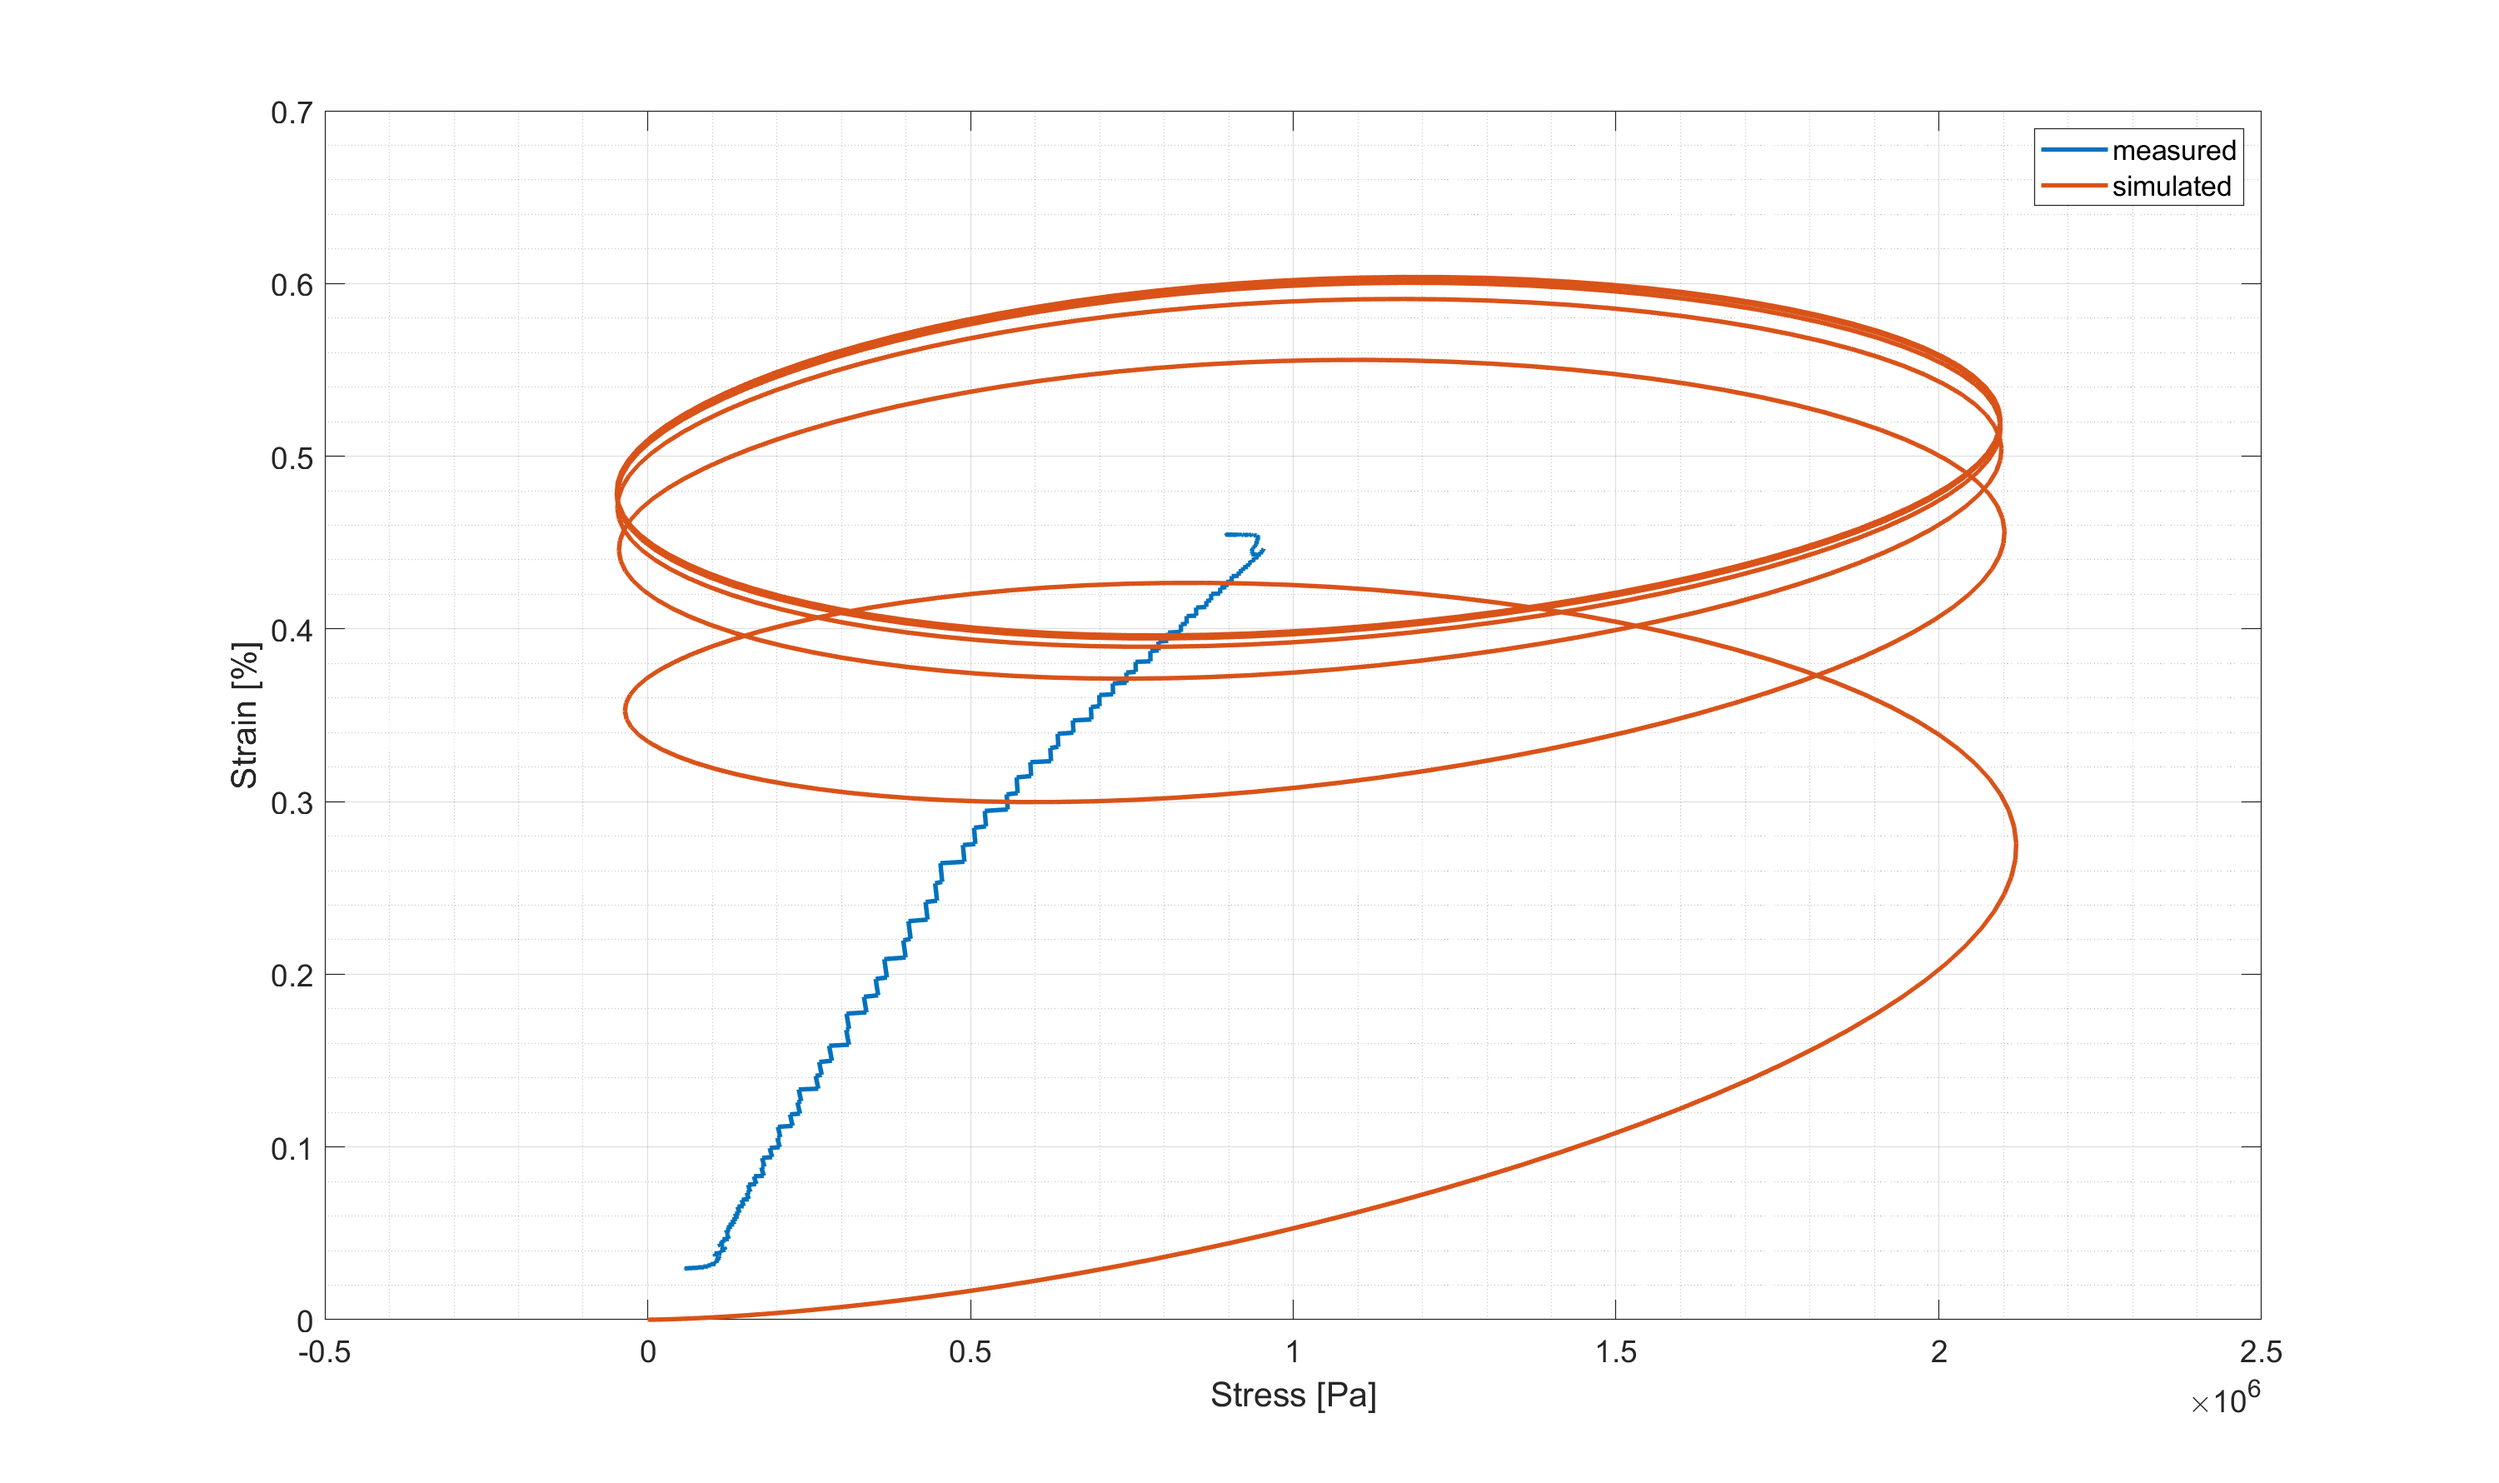
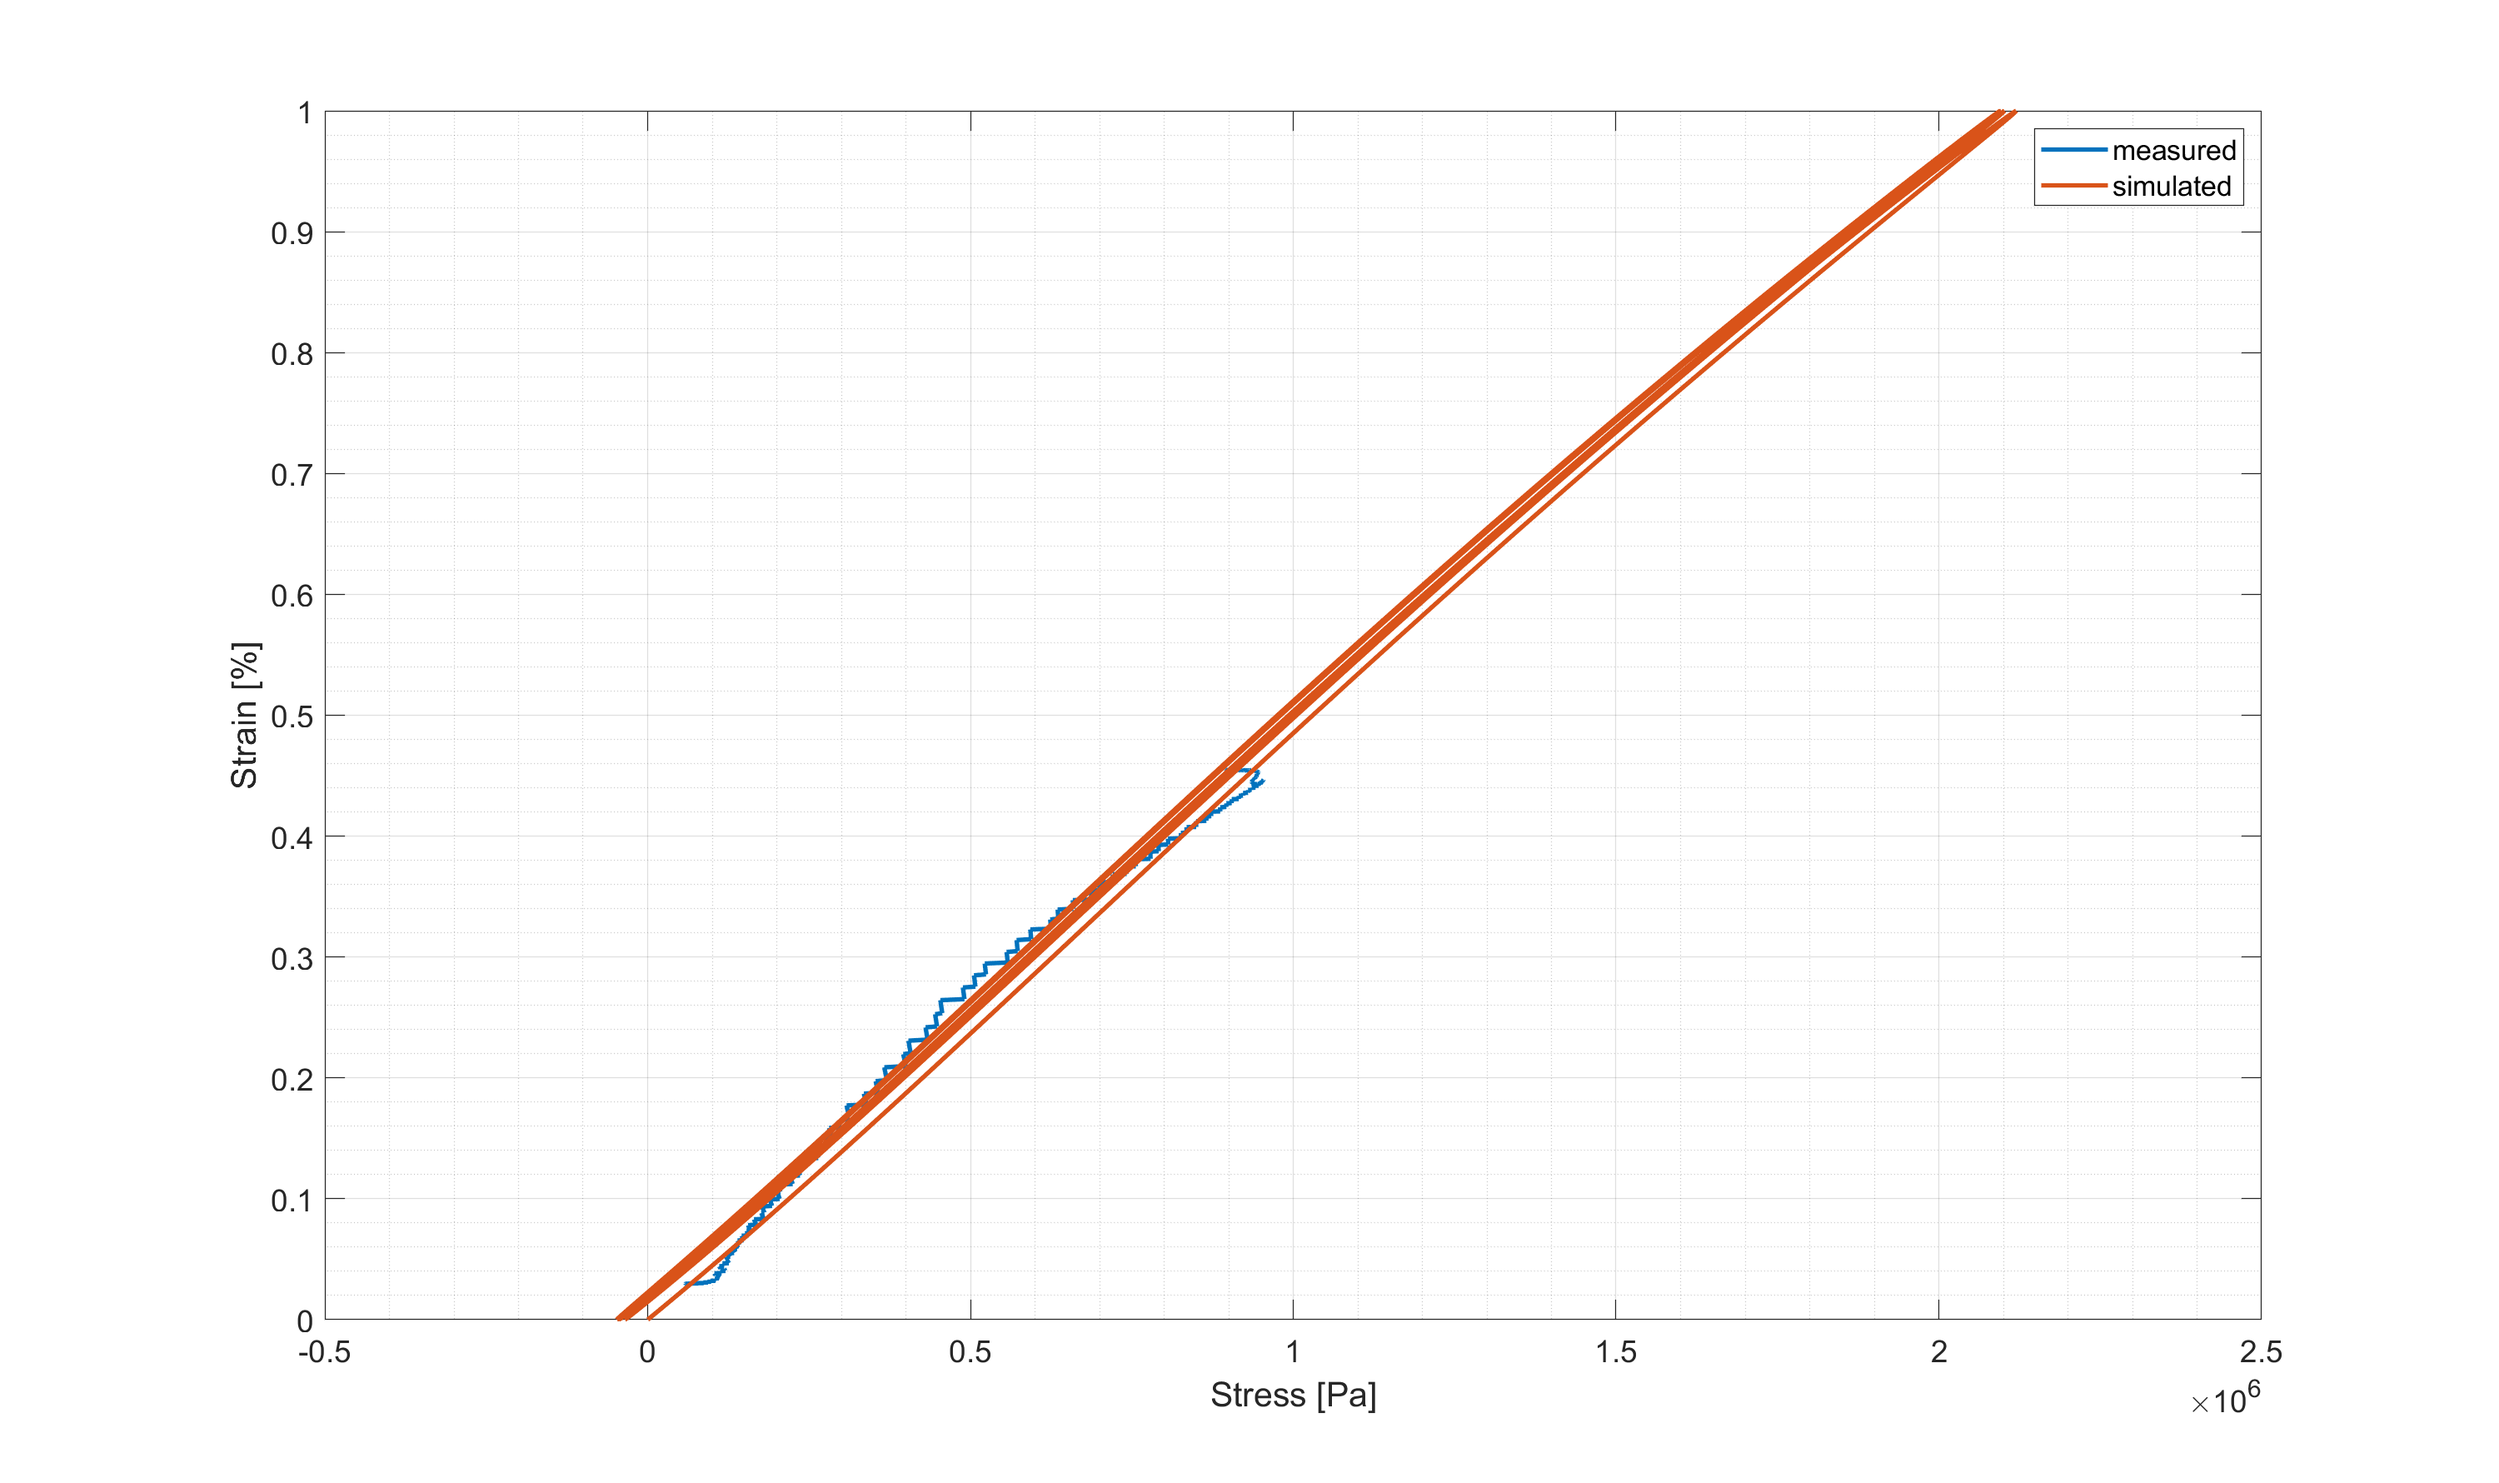
Letztes Update

diff --git a/Homework 5/task_3/task_3.m b/Homework 5/task_3/task_3.m
@@ -7,14 +7,14 @@ clear;
 Parameter;
 
 params_voltage = 0;
-param_f = 0.01;
+param_f = 1;
 
 a = sim('DE_epsIn_task_3', 'SimulationMode', 'normal');
 
 figure('Name', 'SMA actuator [Time-Stress]');
 plot(stress, strain, 'Linewidth', 2, 'DisplayName', 'measured');
 hold on;
-plot(a.get('stress'), a.get('viscoelastic_strain'), 'Linewidth', 2, 'DisplayName', 'simulated');
+plot(a.get('stress'), a.get('strain'), 'Linewidth', 2, 'DisplayName', 'simulated');
 grid;
 grid minor;
 xlabel 'Stress [Pa]';
